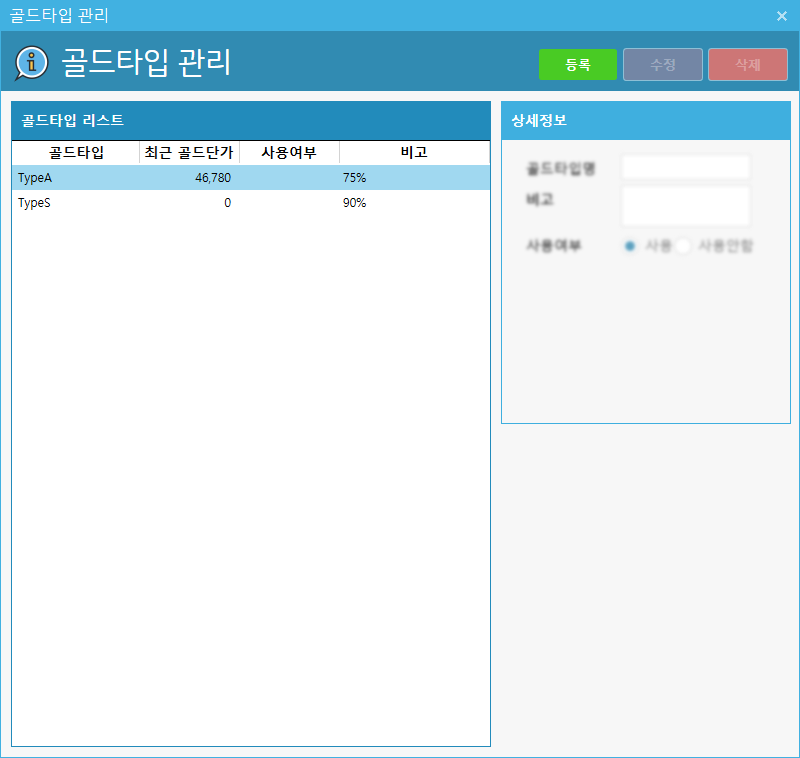
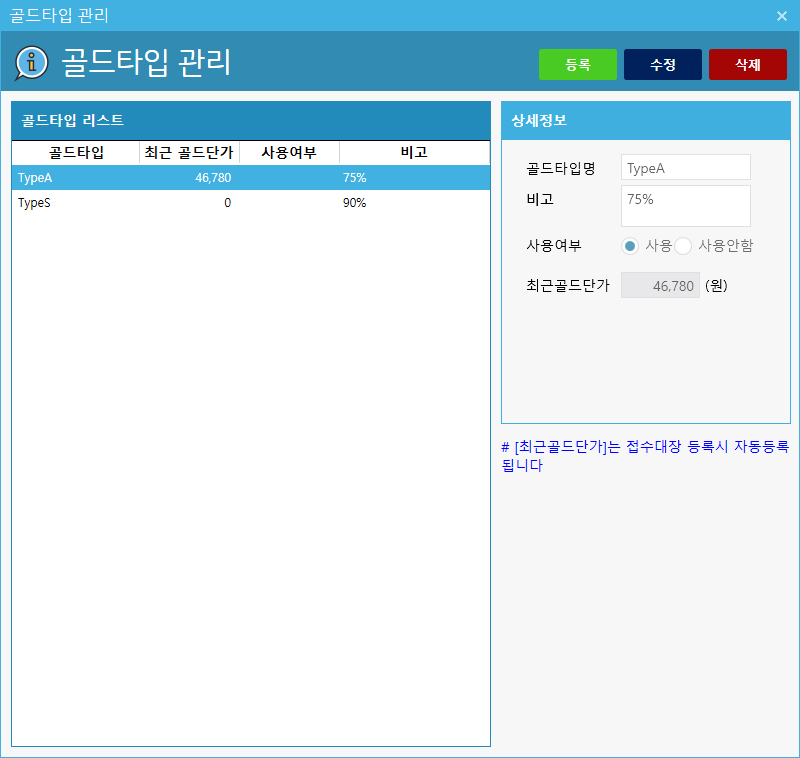
Deployed 253cb18 with MkDocs version: 1.1.dev0

diff --git a/menu/골드타입/index.html b/menu/골드타입/index.html
@@ -86,6 +86,18 @@
     <div id="toc-collapse" class="navbar-collapse collapse card bg-secondary">
         <ul class="nav flex-column bs-sidenav">
             <li class="nav-item main"><a href="#_1">골드타입</a></li>
+                <li class="nav-item">
+                    <a href="#_2" class="nav-link">골드타입 이용안내</a>
+                </li>
+                <li class="nav-item">
+                    <a href="#_3" class="nav-link">&gt; 기공품목에서 [골드타입] 설정</a>
+                </li>
+                <li class="nav-item">
+                    <a href="#_4" class="nav-link">&gt; 접수대장에서 [골드] 정보 입력</a>
+                </li>
+                <li class="nav-item">
+                    <a href="#_5" class="nav-link">화면 예시</a>
+                </li>
         </ul>
     </div>
 </div></div>
@@ -93,8 +105,33 @@
 
 <h1 id="_1">골드타입</h1>
 <ul>
-<li>기능 : 기공품목에 사용하는 골드의 관리</li>
-</ul></div>
+<li>기능 : 기공품목에 사용하는 골드타입의 관리</li>
+<li>참고사항 : 보통은 "골드함량"에 따라 골드타입을 분리하여 관리합니다.</li>
+</ul>
+<hr />
+<h5 id="_2">골드타입 이용안내</h5>
+<ul>
+<li>
+<p>기공품목에 따라 골드타입이 지정되거나 지정되지 않을 수 있습니다. (판단 기준은 골드의 사용유무입니다)</p>
+</li>
+<li>
+<p>골드를 사용하는 품목에 대해서는 사전에 골드타입을 등록하여 기공품목 등록시 해당 골드타입을 지정합니다.</p>
+</li>
+<li>
+<p>[참고사항] 골드타입을 지정한 기공품목에 대해서는 접수대장 등록시 <code>기공소골드</code>, <code>치과골드</code>를 선택할 수 있는 항목이 노출됩니다. (아래 이미지 참고)</p>
+</li>
+</ul>
+<hr />
+<h5 id="_3"><strong> &gt; 기공품목에서 [골드타입] 설정 </strong></h5>
+<p><img alt="골드타입_기공품목_설정" src="../img/%EA%B3%A8%EB%93%9C%ED%83%80%EC%9E%85_%EA%B8%B0%EA%B3%B5%ED%92%88%EB%AA%A9_%EC%84%A4%EC%A0%95.png" /></p>
+<h5 id="_4"><strong> &gt; 접수대장에서 [골드] 정보 입력 </strong></h5>
+<p><img alt="골드타입_접수대장" src="../img/%EA%B3%A8%EB%93%9C%ED%83%80%EC%9E%85_%EC%A0%91%EC%88%98%EB%8C%80%EC%9E%A5.png" /></p>
+<hr />
+<h5 id="_5">화면 예시</h5>
+<ul>
+<li>[참고사항] <code>최근 골드단가</code> 항목은 입력하는 것이 아닌 접수대장 등록시 사용된 가격이 자동으로 기억되어 다음 접수대장 등록시 사용됩니다.</li>
+</ul>
+<p><img alt="골드타입" src="../img/%EA%B3%A8%EB%93%9C%ED%83%80%EC%9E%85.png" /></p></div>
             </div>
         </div>
 

diff --git a/menu/작업파트/index.html b/menu/작업파트/index.html
@@ -86,6 +86,15 @@
     <div id="toc-collapse" class="navbar-collapse collapse card bg-secondary">
         <ul class="nav flex-column bs-sidenav">
             <li class="nav-item main"><a href="#_1">작업파트</a></li>
+                <li class="nav-item">
+                    <a href="#_2" class="nav-link">작업파트 기능 활성화</a>
+                </li>
+                <li class="nav-item">
+                    <a href="#_3" class="nav-link">활용방법 : 작업리스트를 작업파트로 조회</a>
+                </li>
+                <li class="nav-item">
+                    <a href="#_4" class="nav-link">화면 예시</a>
+                </li>
         </ul>
     </div>
 </div></div>
@@ -93,8 +102,22 @@
 
 <h1 id="_1">작업파트</h1>
 <ul>
-<li>기능 : 작업파트의 등록/수정/삭제</li>
-</ul></div>
+<li>기능 - 기공품목 등록시 작업파트를 지정할 수 있는 데이터를 관리
+<img alt="작업파트" src="../img/%EA%B8%B0%EA%B3%B5%ED%92%88%EB%AA%A9_%EC%9E%91%EC%97%85%ED%8C%8C%ED%8A%B8.png" /> </li>
+</ul>
+<hr />
+<h5 id="_2">작업파트 기능 활성화</h5>
+<ul>
+<li>위의 화면처럼 <code>접수대장</code> 등록항목에 <code>작업파트</code>를 추가하기 위해서는 <code>옵션</code>메뉴에서 해당 기능을 활성화 시켜야 함 </li>
+<li>아래 이미지 참고</li>
+</ul>
+<p><img alt="작업파트" src="../img/%EC%9E%91%EC%97%85%ED%8C%8C%ED%8A%B8_%EC%98%B5%EC%85%98.png" /></p>
+<hr />
+<h5 id="_3">활용방법 : 작업리스트를 작업파트로 조회</h5>
+<p><img alt="작업파트" src="../img/%EC%A0%91%EC%88%98%EB%8C%80%EC%9E%A5_%EC%A1%B0%ED%9A%8C_%EC%9E%91%EC%97%85%ED%8C%8C%ED%8A%B8.png" /></p>
+<hr />
+<h5 id="_4">화면 예시</h5>
+<p><img alt="작업파트" src="../img/%EC%9E%91%EC%97%85%ED%8C%8C%ED%8A%B8.png" /></p></div>
             </div>
         </div>
 

diff --git a/menu/거래처별단가/index.html b/menu/거래처별단가/index.html
@@ -101,16 +101,18 @@
 <ul>
 <li>기능 : 기공품목에 대해 거래처별로 단가를 관리</li>
 </ul>
-<h2 id="_2">거래처별로 다른 단가 지정</h2>
+<hr />
+<h5 id="_2">거래처별로 다른 단가 지정</h5>
 <ul>
-<li>왼쪽 거래처목록에서 거래처선택 후 "가격"정보 입력 후 저장 버튼을 클릭합니다.
-<img alt="거래처별단가" src="../img/%EA%B1%B0%EB%9E%98%EC%B2%98%EB%B3%84%EB%8B%A8%EA%B0%80.png" /></li>
+<li>왼쪽 거래처목록에서 거래처선택 후 "가격"정보 입력 후 저장 버튼을 클릭합니다.</li>
 </ul>
-<h2 id="_3">지정된 단가를 기준단가(일반적인 단가)로 변경</h2>
+<p><img alt="거래처별단가" src="../img/%EA%B1%B0%EB%9E%98%EC%B2%98%EB%B3%84%EB%8B%A8%EA%B0%80.png" /></p>
+<hr />
+<h5 id="_3">지정된 단가를 기준단가(일반적인 단가)로 변경</h5>
 <ul>
-<li>어느 한 거래처가 기준단가가 아닌 개별단가로 지정된 경우 그 거래처를 선택하면 "기준단가적용" 버튼이 보입니다.  그 버튼을 클릭하게 되면 해당 거래처의 단가는 일반적인 단가로 적용됩니다.
-<img alt="거래처별단가" src="../img/%EA%B1%B0%EB%9E%98%EC%B2%98%EB%B3%84%EB%8B%A8%EA%B0%80_%EC%A0%81%EC%9A%A9%EC%98%88.png" /></li>
-</ul></div>
+<li>어느 한 거래처가 기준단가가 아닌 개별단가로 지정된 경우 그 거래처를 선택하면 "기준단가적용" 버튼이 보입니다.  그 버튼을 클릭하게 되면 해당 거래처의 단가는 일반적인 단가로 적용됩니다.</li>
+</ul>
+<p><img alt="거래처별단가" src="../img/%EA%B1%B0%EB%9E%98%EC%B2%98%EB%B3%84%EB%8B%A8%EA%B0%80_%EC%A0%81%EC%9A%A9%EC%98%88.png" /></p></div>
             </div>
         </div>
 

diff --git a/menu/접수대장/index.html b/menu/접수대장/index.html
@@ -8,7 +8,7 @@
         
         
         <link rel="shortcut icon" href="../../img/favicon.ico">
-        <title>접수대장 # - DentalLab Manager</title>
+        <title>접수대장 - DentalLab Manager</title>
         <link href="../../css/bootstrap.min.css" rel="stylesheet">
         <link href="../../css/font-awesome.min.css" rel="stylesheet">
         <link href="../../css/base.css" rel="stylesheet">
@@ -102,9 +102,11 @@
 <li>기능 : 작업의뢰서 등록/검색, 작업리스트/완성품출고 인쇄</li>
 <li><span style="color:red">[기억하기] 접수대장을 등록하기 위해서는 사전에 기초데이터(거래처, 기공품목)가 등록되어 있어야 합니다.</span></li>
 </ul>
-<h2 id="_2">초기화면</h2>
+<hr />
+<h5 id="_2">초기화면</h5>
 <p><img alt="초기화면" src="../img/%EC%A0%91%EC%88%98%EB%8C%80%EC%9E%A5_%EC%9D%BC%EB%B0%98.png" /></p>
-<h2 id="_3">접수대장 등록</h2>
+<hr />
+<h5 id="_3">접수대장 등록</h5>
 <p><img alt="접수대장 등록" src="../img/%EC%A0%91%EC%88%98%EB%8C%80%EC%9E%A5_%EB%93%B1%EB%A1%9D.gif" /></p></div>
             </div>
         </div>

diff --git a/menu/기공소정보/index.html b/menu/기공소정보/index.html
@@ -86,6 +86,9 @@
     <div id="toc-collapse" class="navbar-collapse collapse card bg-secondary">
         <ul class="nav flex-column bs-sidenav">
             <li class="nav-item main"><a href="#_1">기공소정보</a></li>
+                <li class="nav-item">
+                    <a href="#_2" class="nav-link">기공소 정보의 활용예</a>
+                </li>
         </ul>
     </div>
 </div></div>
@@ -93,8 +96,12 @@
 
 <h1 id="_1">기공소정보</h1>
 <ul>
-<li>기능 : 기공소정보를 등록 관리</li>
-</ul></div>
+<li>기능 : 본 프로그램 사용하는 기공소의 정보를 등록</li>
+<li>해당 정보는 거래명세서, 계산서 등을 인쇄 할때 업체 정보로 활용됩니다. (아래 이미지 참고)</li>
+</ul>
+<hr />
+<h6 id="_2">기공소 정보의 활용예</h6>
+<p><img alt="기공소정보_거래명세서" src="../img/%EA%B8%B0%EA%B3%B5%EC%86%8C%EC%A0%95%EB%B3%B4_%EA%B1%B0%EB%9E%98%EB%AA%85%EC%84%B8%EC%84%9C.png" /></p></div>
             </div>
         </div>
 

diff --git a/index.html b/index.html
@@ -192,5 +192,5 @@
 
 <!--
 MkDocs version : 1.1.dev0
-Build Date UTC : 2019-07-08 06:09:29
+Build Date UTC : 2019-07-08 07:05:28
 -->
